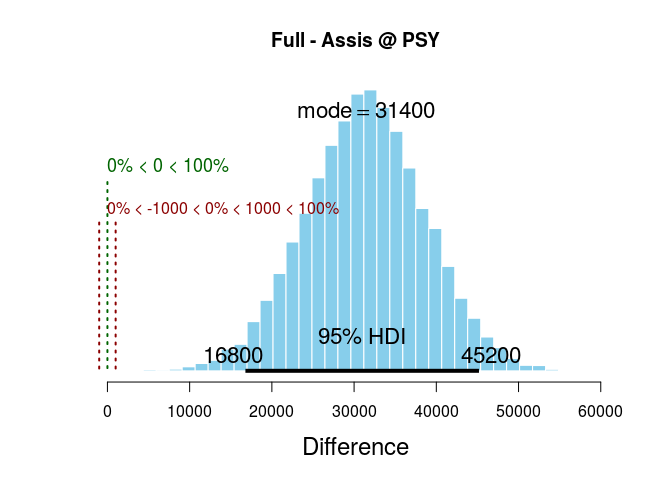
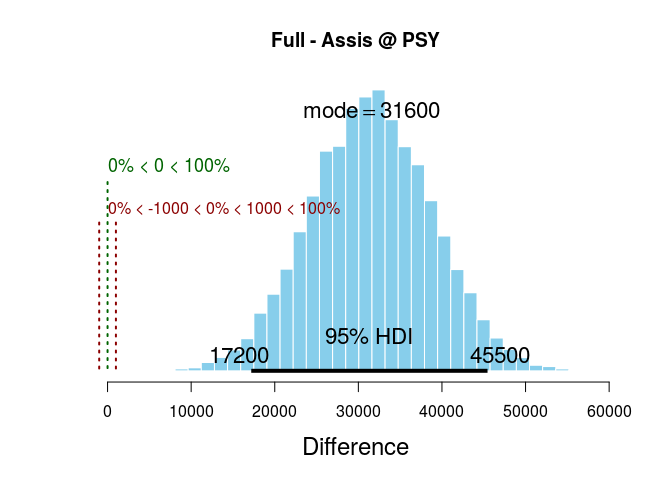
up

diff --git a/01-book-Kruschke-DBDA/exercises/20-chapter/ex-20.md b/01-book-Kruschke-DBDA/exercises/20-chapter/ex-20.md
@@ -263,8 +263,8 @@ plotPost(postContrast, xlab = "Difference",
 ![](figures-20/rep2_plot-1.png)<!-- -->
 
 ```
-                ESS     mean   median     mode hdiMass   hdiLow  hdiHigh
-Difference 13028.15 107143.6 107186.5 107410.4    0.95 97385.27 117367.1
+                ESS   mean   median     mode hdiMass   hdiLow  hdiHigh
+Difference 14060.38 107098 107160.6 107937.9    0.95 96940.21 116907.3
            compVal pGtCompVal ROPElow ROPEhigh pLtROPE pInROPE pGtROPE
 Difference       0          1   -1000     1000       0       0       1
 ```
@@ -300,12 +300,10 @@ plotPost(postDiff, xlab = "Difference",
 ![](figures-20/fig_20_5_left_plot-1.png)<!-- -->
 
 ```
-             ESS     mean   median     mode hdiMass   hdiLow  hdiHigh
-Difference 15000 31360.16 31403.86 31437.66    0.95 16781.77 45188.49
-           compVal pGtCompVal ROPElow ROPEhigh pLtROPE      pInROPE
-Difference       0  0.9999333   -1000     1000       0 6.666667e-05
-             pGtROPE
-Difference 0.9999333
+                ESS     mean   median     mode hdiMass   hdiLow  hdiHigh
+Difference 14570.78 31549.55 31528.74 31586.05    0.95 17188.15 45452.93
+           compVal pGtCompVal ROPElow ROPEhigh pLtROPE pInROPE pGtROPE
+Difference       0          1   -1000     1000       0       0       1
 ```
 
 
@@ -338,7 +336,7 @@ plotPost(postDiff, xlab = "Difference",
 
 ```
                 ESS     mean   median     mode hdiMass   hdiLow  hdiHigh
-Difference 11988.86 68846.51 68852.76 69621.95    0.95 54411.11 82777.08
+Difference 12477.12 68981.13 68930.05 68863.91    0.95 54866.62 83605.09
            compVal pGtCompVal ROPElow ROPEhigh pLtROPE pInROPE pGtROPE
 Difference       0          1   -1000     1000       0       0       1
 ```
